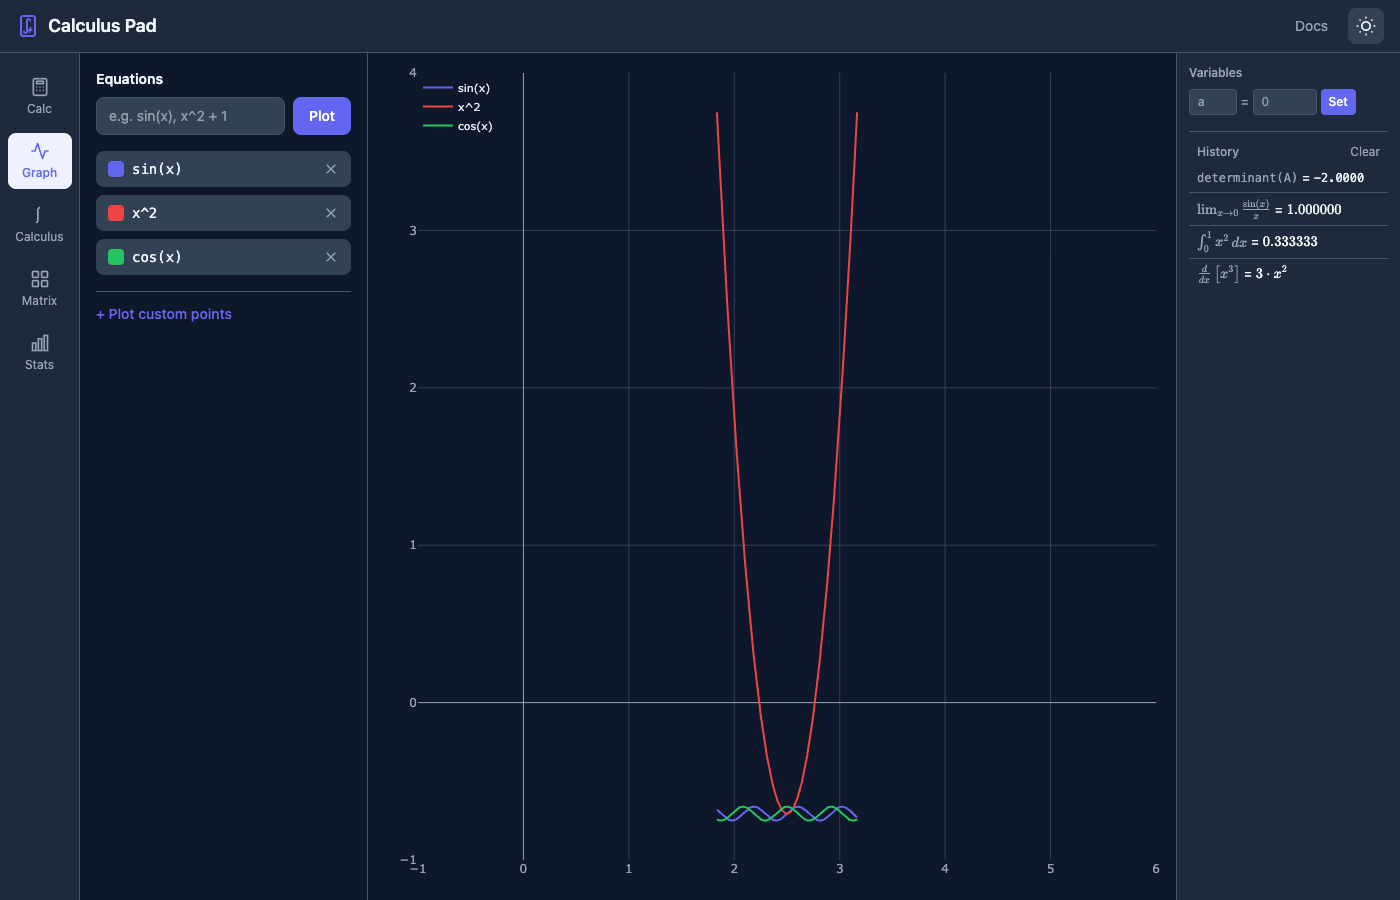
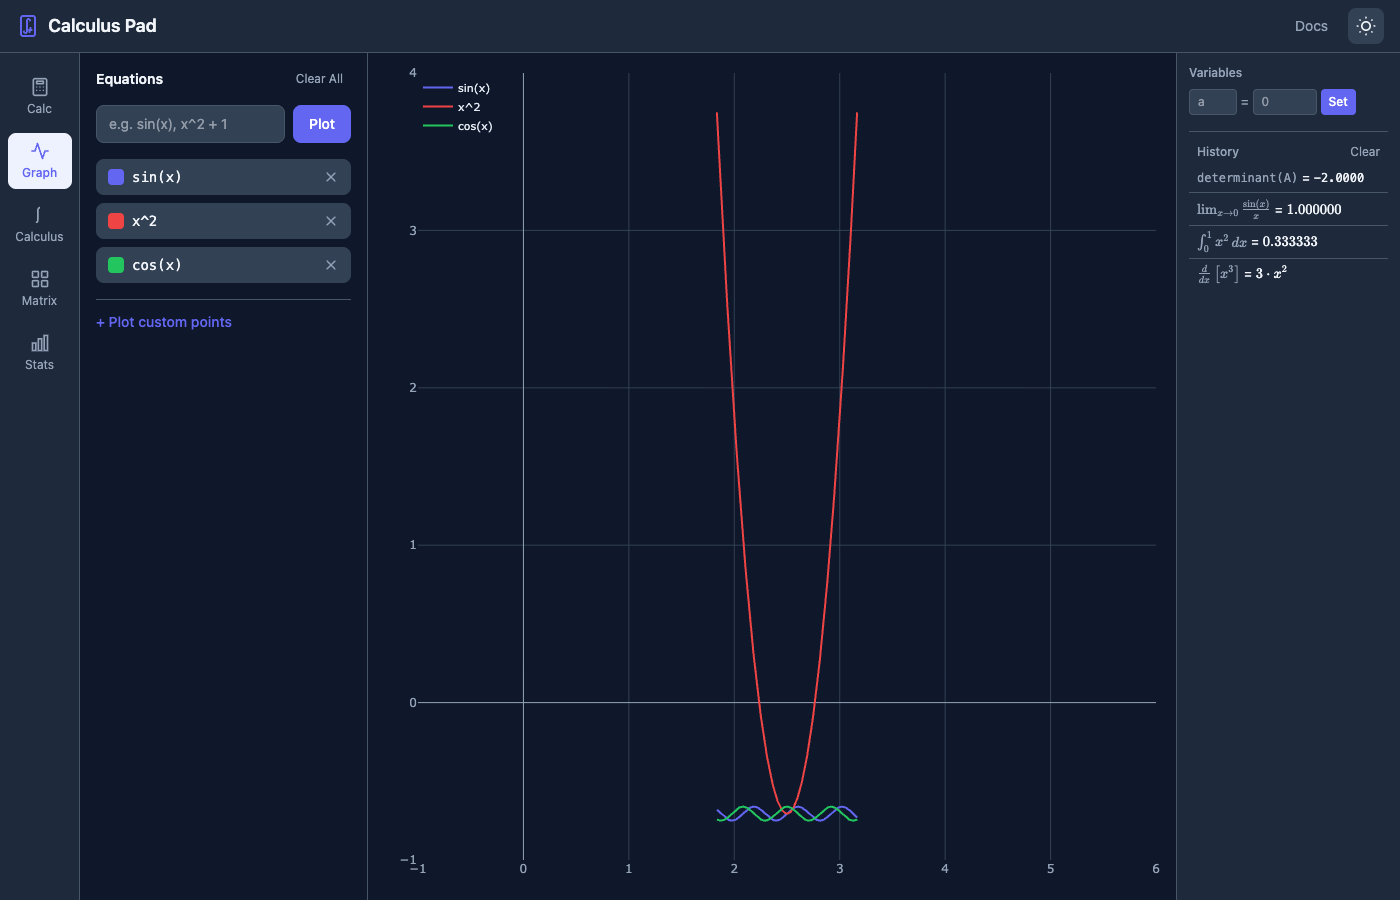
feat: add Clear All buttons and fix calculus panel input overflow
- fix(calculus): stack inputs vertically in IntegralInput, LimitInput,
  and DerivativeInput to prevent overflow in 320px sidebar
- feat(graph): add Clear All button to remove all equations and points
- feat(calculus): add Clear All button to reset all inputs and results
- feat(matrix): add Clear All button to reset matrices to defaults
- feat(stats): add Clear All button to reset all data and results
- feat(ui): show empty Plotly grid with overlay hint on Graph, Calculus,
  and Statistics tabs when no data is present
- docs: mention Clear All in Graphing, Calculus, Matrix, and Statistics
  sections; recapture all screenshots

Changed region(s): [[0.0614, 0.0622, 0.2457, 0.3733]]

diff --git a/src/components/DocsPage.tsx b/src/components/DocsPage.tsx
@@ -327,6 +327,7 @@ export default function DocsPage() {
             <p className="mb-4 text-slate-500 dark:text-slate-400">
               Click <CodeBlock>+ Plot custom points</CodeBlock> to enter (x, y) coordinate pairs manually. Choose
               between scatter, line, or both display modes. Points appear as an additional trace overlaid on the graph.
+              Use <CodeBlock>Clear All</CodeBlock> to remove all equations and point datasets at once.
             </p>
 
             <div className="rounded-xl bg-indigo-50 p-4 text-indigo-700 text-sm dark:bg-indigo-950 dark:text-indigo-300">
@@ -340,7 +341,8 @@ export default function DocsPage() {
             <h2 className="mb-2 font-bold text-2xl text-slate-800 dark:text-white">Calculus</h2>
             <p className="mb-6 text-slate-500 dark:text-slate-400">
               Perform symbolic differentiation, numerical integration, and limit computation. Results are visualized
-              alongside the original function on the graph.
+              alongside the original function on the graph. Use <CodeBlock>Clear All</CodeBlock> to reset all inputs and
+              results.
             </p>
 
             <img
@@ -399,7 +401,7 @@ export default function DocsPage() {
             <p className="mb-6 text-slate-500 dark:text-slate-400">
               Perform matrix operations on matrices up to 5x5. Resize matrices dynamically using the row/column
               selectors. Operations that only need one matrix (determinant, inverse, transpose) automatically hide
-              Matrix B.
+              Matrix B. Use <CodeBlock>Clear All</CodeBlock> to reset matrices and results to defaults.
             </p>
 
             <img
@@ -476,7 +478,7 @@ export default function DocsPage() {
             <h2 className="mb-2 font-bold text-2xl text-slate-800 dark:text-white">Statistics</h2>
             <p className="mb-6 text-slate-500 dark:text-slate-400">
               Enter numerical data to instantly see descriptive statistics and a distribution histogram. Switch to X,Y
-              pairs mode for regression analysis.
+              pairs mode for regression analysis. Use <CodeBlock>Clear All</CodeBlock> to reset all data and results.
             </p>
 
             <img

diff --git a/src/components/calculus/IntegralInput.tsx b/src/components/calculus/IntegralInput.tsx
@@ -94,7 +94,7 @@ export default function IntegralInput() {
           onChange={(e) => dispatch({ type: 'SET_CALCULUS', updates: { integralLower: e.target.value } })}
           placeholder="Lower"
           aria-label="Lower bound"
-          className="flex-1 rounded-lg border border-[var(--color-border)] bg-[var(--color-surface-alt)] px-3 py-2 text-[var(--color-text)] text-sm focus:outline-none focus:ring-2 focus:ring-[var(--color-primary)]"
+          className="min-w-0 w-1/2 rounded-lg border border-[var(--color-border)] bg-[var(--color-surface-alt)] px-3 py-2 text-[var(--color-text)] text-sm focus:outline-none focus:ring-2 focus:ring-[var(--color-primary)]"
         />
         <input
           type="text"
@@ -102,16 +102,16 @@ export default function IntegralInput() {
           onChange={(e) => dispatch({ type: 'SET_CALCULUS', updates: { integralUpper: e.target.value } })}
           placeholder="Upper"
           aria-label="Upper bound"
-          className="flex-1 rounded-lg border border-[var(--color-border)] bg-[var(--color-surface-alt)] px-3 py-2 text-[var(--color-text)] text-sm focus:outline-none focus:ring-2 focus:ring-[var(--color-primary)]"
+          className="min-w-0 w-1/2 rounded-lg border border-[var(--color-border)] bg-[var(--color-surface-alt)] px-3 py-2 text-[var(--color-text)] text-sm focus:outline-none focus:ring-2 focus:ring-[var(--color-primary)]"
         />
-        <button
-          type="button"
-          onClick={handleCompute}
-          className="rounded-lg bg-[var(--color-primary)] px-4 py-2 font-medium text-sm text-white transition-colors hover:bg-[var(--color-primary-hover)]"
-        >
-          Compute
-        </button>
       </div>
+      <button
+        type="button"
+        onClick={handleCompute}
+        className="self-end rounded-lg bg-[var(--color-primary)] px-4 py-2 font-medium text-sm text-white transition-colors hover:bg-[var(--color-primary-hover)]"
+      >
+        Compute
+      </button>
       {error && (
         <p role="alert" className="text-[var(--color-error)] text-xs">
           {error}

diff --git a/src/components/calculus/LimitInput.tsx b/src/components/calculus/LimitInput.tsx
@@ -85,7 +85,7 @@ export default function LimitInput() {
           onChange={(e) => dispatch({ type: 'SET_CALCULUS', updates: { limitExpr: e.target.value } })}
           placeholder="e.g. sin(x)/x"
           aria-label="Limit expression"
-          className="flex-1 rounded-lg border border-[var(--color-border)] bg-[var(--color-surface-alt)] px-3 py-2 text-[var(--color-text)] text-sm focus:outline-none focus:ring-2 focus:ring-[var(--color-primary)]"
+          className="min-w-0 w-1/2 rounded-lg border border-[var(--color-border)] bg-[var(--color-surface-alt)] px-3 py-2 text-[var(--color-text)] text-sm focus:outline-none focus:ring-2 focus:ring-[var(--color-primary)]"
         />
         <input
           type="text"
@@ -93,16 +93,16 @@ export default function LimitInput() {
           onChange={(e) => dispatch({ type: 'SET_CALCULUS', updates: { limitPoint: e.target.value } })}
           placeholder="x ->"
           aria-label="Limit point"
-          className="w-20 rounded-lg border border-[var(--color-border)] bg-[var(--color-surface-alt)] px-3 py-2 text-[var(--color-text)] text-sm focus:outline-none focus:ring-2 focus:ring-[var(--color-primary)]"
+          className="min-w-0 w-1/2 rounded-lg border border-[var(--color-border)] bg-[var(--color-surface-alt)] px-3 py-2 text-[var(--color-text)] text-sm focus:outline-none focus:ring-2 focus:ring-[var(--color-primary)]"
         />
-        <button
-          type="button"
-          onClick={handleCompute}
-          className="rounded-lg bg-[var(--color-primary)] px-4 py-2 font-medium text-sm text-white transition-colors hover:bg-[var(--color-primary-hover)]"
-        >
-          Compute
-        </button>
       </div>
+      <button
+        type="button"
+        onClick={handleCompute}
+        className="self-end rounded-lg bg-[var(--color-primary)] px-4 py-2 font-medium text-sm text-white transition-colors hover:bg-[var(--color-primary-hover)]"
+      >
+        Compute
+      </button>
       {error && (
         <p role="alert" className="text-[var(--color-error)] text-xs">
           {error}

diff --git a/src/components/calculus/DerivativeInput.tsx b/src/components/calculus/DerivativeInput.tsx
@@ -73,23 +73,21 @@ export default function DerivativeInput() {
       <h3 id="deriv-heading" className="font-semibold text-[var(--color-text)] text-sm">
         Derivative
       </h3>
-      <div className="flex gap-2">
-        <input
-          type="text"
-          value={state.calculus.derivativeExpr}
-          onChange={(e) => dispatch({ type: 'SET_CALCULUS', updates: { derivativeExpr: e.target.value } })}
-          placeholder="e.g. x^3, sin(x)"
-          aria-label="Derivative expression"
-          className="flex-1 rounded-lg border border-[var(--color-border)] bg-[var(--color-surface-alt)] px-3 py-2 text-[var(--color-text)] text-sm focus:outline-none focus:ring-2 focus:ring-[var(--color-primary)]"
-        />
-        <button
-          type="button"
-          onClick={handleCompute}
-          className="rounded-lg bg-[var(--color-primary)] px-4 py-2 font-medium text-sm text-white transition-colors hover:bg-[var(--color-primary-hover)]"
-        >
-          d/dx
-        </button>
-      </div>
+      <input
+        type="text"
+        value={state.calculus.derivativeExpr}
+        onChange={(e) => dispatch({ type: 'SET_CALCULUS', updates: { derivativeExpr: e.target.value } })}
+        placeholder="e.g. x^3, sin(x)"
+        aria-label="Derivative expression"
+        className="rounded-lg border border-[var(--color-border)] bg-[var(--color-surface-alt)] px-3 py-2 text-[var(--color-text)] text-sm focus:outline-none focus:ring-2 focus:ring-[var(--color-primary)]"
+      />
+      <button
+        type="button"
+        onClick={handleCompute}
+        className="self-end rounded-lg bg-[var(--color-primary)] px-4 py-2 font-medium text-sm text-white transition-colors hover:bg-[var(--color-primary-hover)]"
+      >
+        d/dx
+      </button>
       {error && (
         <p role="alert" className="text-[var(--color-error)] text-xs">
           {error}

diff --git a/src/components/calculus/CalculusPanel.tsx b/src/components/calculus/CalculusPanel.tsx
@@ -1,9 +1,14 @@
-import CalculusPlot from './CalculusPlot';
-import DerivativeInput from './DerivativeInput';
-import IntegralInput from './IntegralInput';
-import LimitInput from './LimitInput';
+import { useAppContext } from "../../context/AppContext";
+import CalculusPlot from "./CalculusPlot";
+import DerivativeInput from "./DerivativeInput";
+import IntegralInput from "./IntegralInput";
+import LimitInput from "./LimitInput";
 
 export default function CalculusPanel() {
+  const { state, dispatch } = useAppContext();
+  const c = state.calculus;
+  const hasData = !!(c.derivativeExpr || c.derivativeResult || c.integralExpr || c.integralResult || c.limitExpr || c.limitResult);
+
   return (
     <div className="flex h-full flex-col md:flex-row">
       <div
@@ -11,11 +16,24 @@ export default function CalculusPanel() {
         aria-label="Calculus inputs"
         className="flex max-h-[40vh] w-full flex-col gap-4 overflow-y-auto border-[var(--color-border)] border-b p-4 md:max-h-none md:w-80 md:border-r md:border-b-0"
       >
+        {hasData && (
+          <button
+            type="button"
+            onClick={() => dispatch({ type: 'CLEAR_CALCULUS' })}
+            className="self-end rounded px-2 py-0.5 text-[var(--color-text-secondary)] text-xs transition-colors hover:bg-[var(--color-surface-alt)] hover:text-[var(--color-error)]"
+          >
+            Clear All
+          </button>
+        )}
         <DerivativeInput />
         <IntegralInput />
         <LimitInput />
       </div>
-      <div role="img" aria-label="Calculus plot" className="min-h-[300px] flex-1">
+      <div
+        role="img"
+        aria-label="Calculus plot"
+        className="min-h-[300px] flex-1"
+      >
         <CalculusPlot />
       </div>
     </div>

diff --git a/src/components/graphing/GraphPanel.tsx b/src/components/graphing/GraphPanel.tsx
@@ -1,9 +1,13 @@
+import { useAppContext } from '../../context/AppContext';
 import EquationInput from './EquationInput';
 import EquationList from './EquationList';
 import GraphPlot from './GraphPlot';
 import PointPlotInput from './PointPlotInput';
 
 export default function GraphPanel() {
+  const { state, dispatch } = useAppContext();
+  const hasData = state.equations.length > 0 || state.pointDataSets.length > 0;
+
   return (
     <div className="flex h-full flex-col md:flex-row">
       <div
@@ -11,8 +15,19 @@ export default function GraphPanel() {
         aria-label="Equation controls"
         className="flex max-h-[40vh] w-full flex-col gap-4 overflow-y-auto border-[var(--color-border)] border-b p-4 md:max-h-none md:w-72 md:border-r md:border-b-0"
       >
+        <div className="flex items-center justify-between">
+          <h2 className="font-semibold text-[var(--color-text)] text-sm">Equations</h2>
+          {hasData && (
+            <button
+              type="button"
+              onClick={() => dispatch({ type: 'CLEAR_EQUATIONS' })}
+              className="rounded px-2 py-0.5 text-[var(--color-text-secondary)] text-xs transition-colors hover:bg-[var(--color-surface-alt)] hover:text-[var(--color-error)]"
+            >
+              Clear All
+            </button>
+          )}
+        </div>
         <div>
-          <h2 className="mb-2 font-semibold text-[var(--color-text)] text-sm">Equations</h2>
           <EquationInput />
         </div>
         <EquationList />

diff --git a/src/components/matrix/MatrixPanel.tsx b/src/components/matrix/MatrixPanel.tsx
@@ -47,7 +47,20 @@ export default function MatrixPanel() {
 
   return (
     <div role="region" aria-label="Matrix calculator" className="flex h-full flex-col overflow-y-auto p-6">
-      <h2 className="mb-4 font-semibold text-[var(--color-text)] text-lg">Matrix Calculator</h2>
+      <div className="mb-4 flex items-center justify-between">
+        <h2 className="font-semibold text-[var(--color-text)] text-lg">Matrix Calculator</h2>
+        <button
+          type="button"
+          onClick={() => {
+            dispatch({ type: 'CLEAR_MATRIX' });
+            setSteps([]);
+            setShowSteps(false);
+          }}
+          className="rounded px-2 py-0.5 text-[var(--color-text-secondary)] text-xs transition-colors hover:bg-[var(--color-surface-alt)] hover:text-[var(--color-error)]"
+        >
+          Clear All
+        </button>
+      </div>
       <div className="flex flex-wrap gap-6">
         <MatrixInput
           label="Matrix A"

diff --git a/src/components/statistics/StatisticsPanel.tsx b/src/components/statistics/StatisticsPanel.tsx
@@ -31,6 +31,15 @@ export default function StatisticsPanel() {
         aria-label="Statistics inputs"
         className="flex max-h-[40vh] w-full flex-col gap-4 overflow-y-auto border-[var(--color-border)] border-b p-4 md:max-h-none md:w-80 md:border-r md:border-b-0"
       >
+        {(state.statistics.data.length > 0 || state.statistics.xyData.length > 0) && (
+          <button
+            type="button"
+            onClick={() => dispatch({ type: 'CLEAR_STATISTICS' })}
+            className="self-end rounded px-2 py-0.5 text-[var(--color-text-secondary)] text-xs transition-colors hover:bg-[var(--color-surface-alt)] hover:text-[var(--color-error)]"
+          >
+            Clear All
+          </button>
+        )}
         <DataInput />
         <StatsResults results={state.statistics.results} />
         <div className="border-[var(--color-border)] border-t pt-3">

diff --git a/src/components/calculus/CalculusPlot.tsx b/src/components/calculus/CalculusPlot.tsx
@@ -115,8 +115,13 @@ export default function CalculusPlot() {
 
   if (data.length === 0) {
     return (
-      <div className="flex h-full items-center justify-center text-[var(--color-text-secondary)] text-sm">
-        Compute a derivative or integral to see the graph
+      <div className="relative h-full w-full">
+        <PlotlyWrapper data={[]} layout={layout} style={{ width: '100%', height: '100%' }} />
+        <div className="pointer-events-none absolute inset-0 flex items-center justify-center">
+          <span className="rounded-lg bg-[var(--color-surface)] px-4 py-2 text-[var(--color-text-secondary)] text-sm opacity-60">
+            Compute a derivative or integral to see the graph
+          </span>
+        </div>
       </div>
     );
   }

diff --git a/src/components/statistics/StatisticsPlot.tsx b/src/components/statistics/StatisticsPlot.tsx
@@ -78,8 +78,13 @@ export default function StatisticsPlot() {
 
   if (plotData.length === 0) {
     return (
-      <div className="flex h-full items-center justify-center text-[var(--color-text-secondary)] text-sm">
-        Enter data to see visualization
+      <div className="relative h-full w-full">
+        <PlotlyWrapper data={[]} layout={layout} style={{ width: '100%', height: '100%' }} />
+        <div className="pointer-events-none absolute inset-0 flex items-center justify-center">
+          <span className="rounded-lg bg-[var(--color-surface)] px-4 py-2 text-[var(--color-text-secondary)] text-sm opacity-60">
+            Enter data to see visualization
+          </span>
+        </div>
       </div>
     );
   }

diff --git a/src/context/AppContext.tsx b/src/context/AppContext.tsx
@@ -107,6 +107,18 @@ function appReducer(state: AppState, action: AppAction): AppState {
     case 'CLEAR_HISTORY':
       return { ...state, history: [] };
 
+    case 'CLEAR_EQUATIONS':
+      return { ...state, equations: [], pointDataSets: [] };
+
+    case 'CLEAR_CALCULUS':
+      return { ...state, calculus: initialCalculus };
+
+    case 'CLEAR_MATRIX':
+      return { ...state, matrix: initialMatrix };
+
+    case 'CLEAR_STATISTICS':
+      return { ...state, statistics: initialStatistics };
+
     case 'ADD_VARIABLE':
       return { ...state, variables: [...state.variables, action.variable] };
 

diff --git a/src/components/graphing/GraphPlot.tsx b/src/components/graphing/GraphPlot.tsx
@@ -102,6 +102,13 @@ export default function GraphPlot() {
         onHover={handleHover}
         onUnhover={handleUnhover}
       />
+      {data.length === 0 && (
+        <div className="pointer-events-none absolute inset-0 flex items-center justify-center">
+          <span className="rounded-lg bg-[var(--color-surface)] px-4 py-2 text-[var(--color-text-secondary)] text-sm opacity-60">
+            Add an equation to see the graph
+          </span>
+        </div>
+      )}
     </div>
   );
 }
